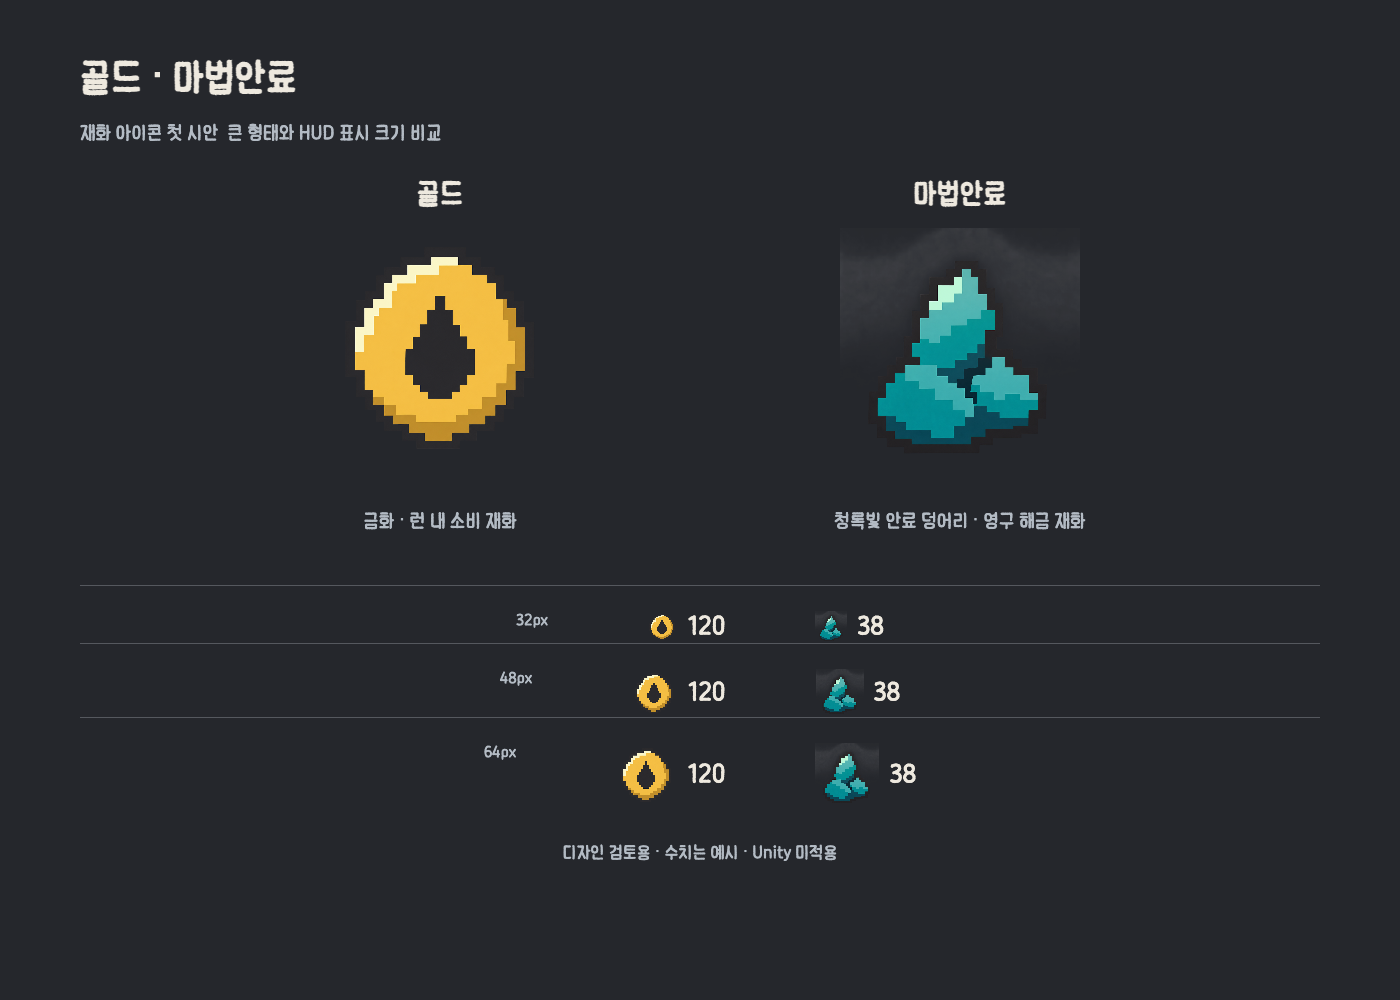
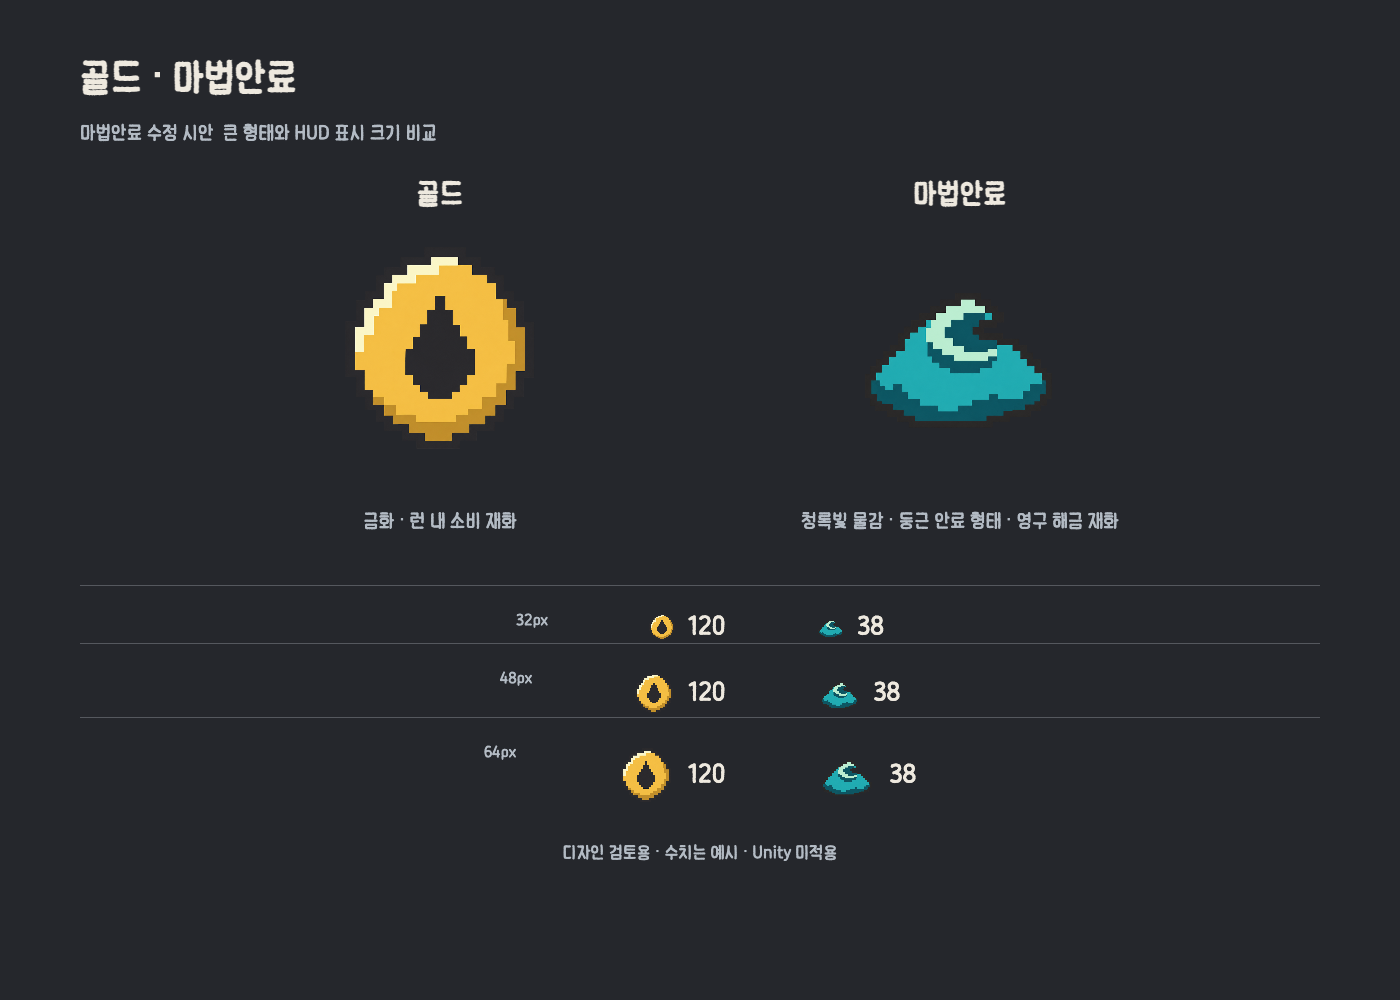
design: reshape magic pigment as paint and remove haze

diff --git a/ui/work/theme/ink-pixel-v1/currency-v1/index.html b/ui/work/theme/ink-pixel-v1/currency-v1/index.html
@@ -1,2 +1,2 @@
 <!doctype html><html lang="ko"><meta charset="utf-8"><title>Deviant · 재화 아이콘</title><style>
-@font-face{font-family:m;src:url('../assembly-v1/fonts/MemomentKkukkukk.ttf')}*{box-sizing:border-box}body{margin:0;background:#25272c;color:#eee9df;font-family:m,sans-serif;padding:54px 80px}h1{font-size:40px;margin:0 0 10px}p{color:#b3bbc4;font-size:20px}main{display:flex;gap:100px;justify-content:center;margin:32px 0}article{width:420px;text-align:center}h2{font-size:30px;margin:0}article>img{width:240px;height:240px;object-fit:contain;image-rendering:pixelated;margin:16px}section{border-top:1px solid #55585e;padding-top:25px;display:flex;justify-content:center;gap:90px}.sample{display:flex;align-items:center;gap:10px;font-size:26px}.sample img{object-fit:contain;image-rendering:pixelated}.size{font-size:16px;color:#b3bbc4;margin-right:8px}footer{margin-top:35px;color:#b3bbc4;font-size:18px;text-align:center}</style><h1>골드 · 마법안료</h1><p>재화 아이콘 첫 시안 — 큰 형태와 HUD 표시 크기 비교</p><main><article><h2>골드</h2><img src="assets/gold.png"><p>금화 · 런 내 소비 재화</p></article><article><h2>마법안료</h2><img src="assets/magic-pigment.png"><p>청록빛 안료 덩어리 · 영구 해금 재화</p></article></main><section><span class="size">32px</span><div class="sample"><img src="assets/gold.png" width="32" height="32">120</div><div class="sample"><img src="assets/magic-pigment.png" width="32" height="32">38</div></section><section><span class="size">48px</span><div class="sample"><img src="assets/gold.png" width="48" height="48">120</div><div class="sample"><img src="assets/magic-pigment.png" width="48" height="48">38</div></section><section><span class="size">64px</span><div class="sample"><img src="assets/gold.png" width="64" height="64">120</div><div class="sample"><img src="assets/magic-pigment.png" width="64" height="64">38</div></section><footer>디자인 검토용 · 수치는 예시 · Unity 미적용</footer></html>
+@font-face{font-family:m;src:url('../assembly-v1/fonts/MemomentKkukkukk.ttf')}*{box-sizing:border-box}body{margin:0;background:#25272c;color:#eee9df;font-family:m,sans-serif;padding:54px 80px}h1{font-size:40px;margin:0 0 10px}p{color:#b3bbc4;font-size:20px}main{display:flex;gap:100px;justify-content:center;margin:32px 0}article{width:420px;text-align:center}h2{font-size:30px;margin:0}article>img{width:240px;height:240px;object-fit:contain;image-rendering:pixelated;margin:16px}section{border-top:1px solid #55585e;padding-top:25px;display:flex;justify-content:center;gap:90px}.sample{display:flex;align-items:center;gap:10px;font-size:26px}.sample img{object-fit:contain;image-rendering:pixelated}.size{font-size:16px;color:#b3bbc4;margin-right:8px}footer{margin-top:35px;color:#b3bbc4;font-size:18px;text-align:center}</style><h1>골드 · 마법안료</h1><p>마법안료 수정 시안 — 큰 형태와 HUD 표시 크기 비교</p><main><article><h2>골드</h2><img src="assets/gold.png"><p>금화 · 런 내 소비 재화</p></article><article><h2>마법안료</h2><img src="assets/magic-pigment-v2.png"><p>청록빛 물감 · 둥근 안료 형태 · 영구 해금 재화</p></article></main><section><span class="size">32px</span><div class="sample"><img src="assets/gold.png" width="32" height="32">120</div><div class="sample"><img src="assets/magic-pigment-v2.png" width="32" height="32">38</div></section><section><span class="size">48px</span><div class="sample"><img src="assets/gold.png" width="48" height="48">120</div><div class="sample"><img src="assets/magic-pigment-v2.png" width="48" height="48">38</div></section><section><span class="size">64px</span><div class="sample"><img src="assets/gold.png" width="64" height="64">120</div><div class="sample"><img src="assets/magic-pigment-v2.png" width="64" height="64">38</div></section><footer>디자인 검토용 · 수치는 예시 · Unity 미적용</footer></html>

diff --git a/ui/work/theme/ink-pixel-v1/currency-v1/README.md b/ui/work/theme/ink-pixel-v1/currency-v1/README.md
@@ -4,3 +4,6 @@
 마법안료: 영구 해금 재화, 안료 덩어리 실루엣과 청록색. 장착용 잉크병과 구분한다.
 
 검토용 생성 PNG. 최종 승인 전이며 Unity에는 적용하지 않는다. 비교 페이지는 동일 표시 크기와 실제 HUD에 가까운 축소 표시를 함께 제공한다. 실제 네이티브 픽셀 크기·알파 경계·atlas 패킹 최적화는 디자인 승인 후 정리한다. 생성 원본을 임의로 다시 그리거나 다른 에셋으로 대체하지 않는다.
+
+## 마법안료 v2
+보석 같은 각진 실루엣을 낮고 넓은 물감 형태와 말린 물감 결로 수정. 생성 도구로 주변 잔상을 제거한 투명 PNG. 기존 v1은 비교 기록으로 보존하며 index.html은 v2를 사용한다. 골드는 변경하지 않았다.
